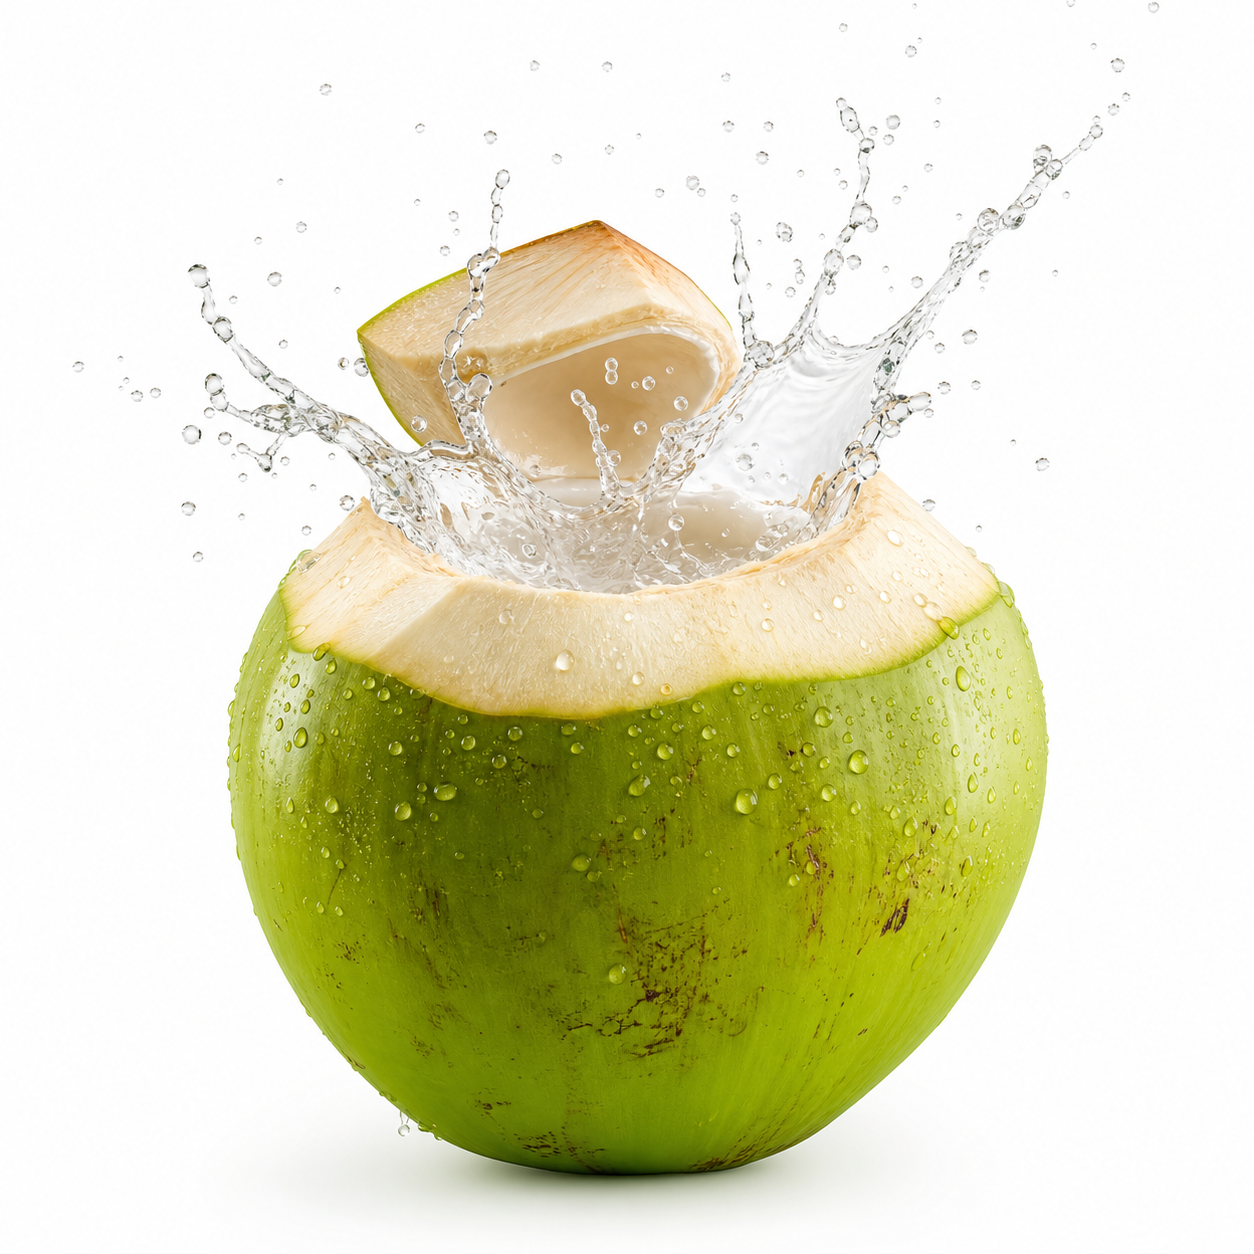
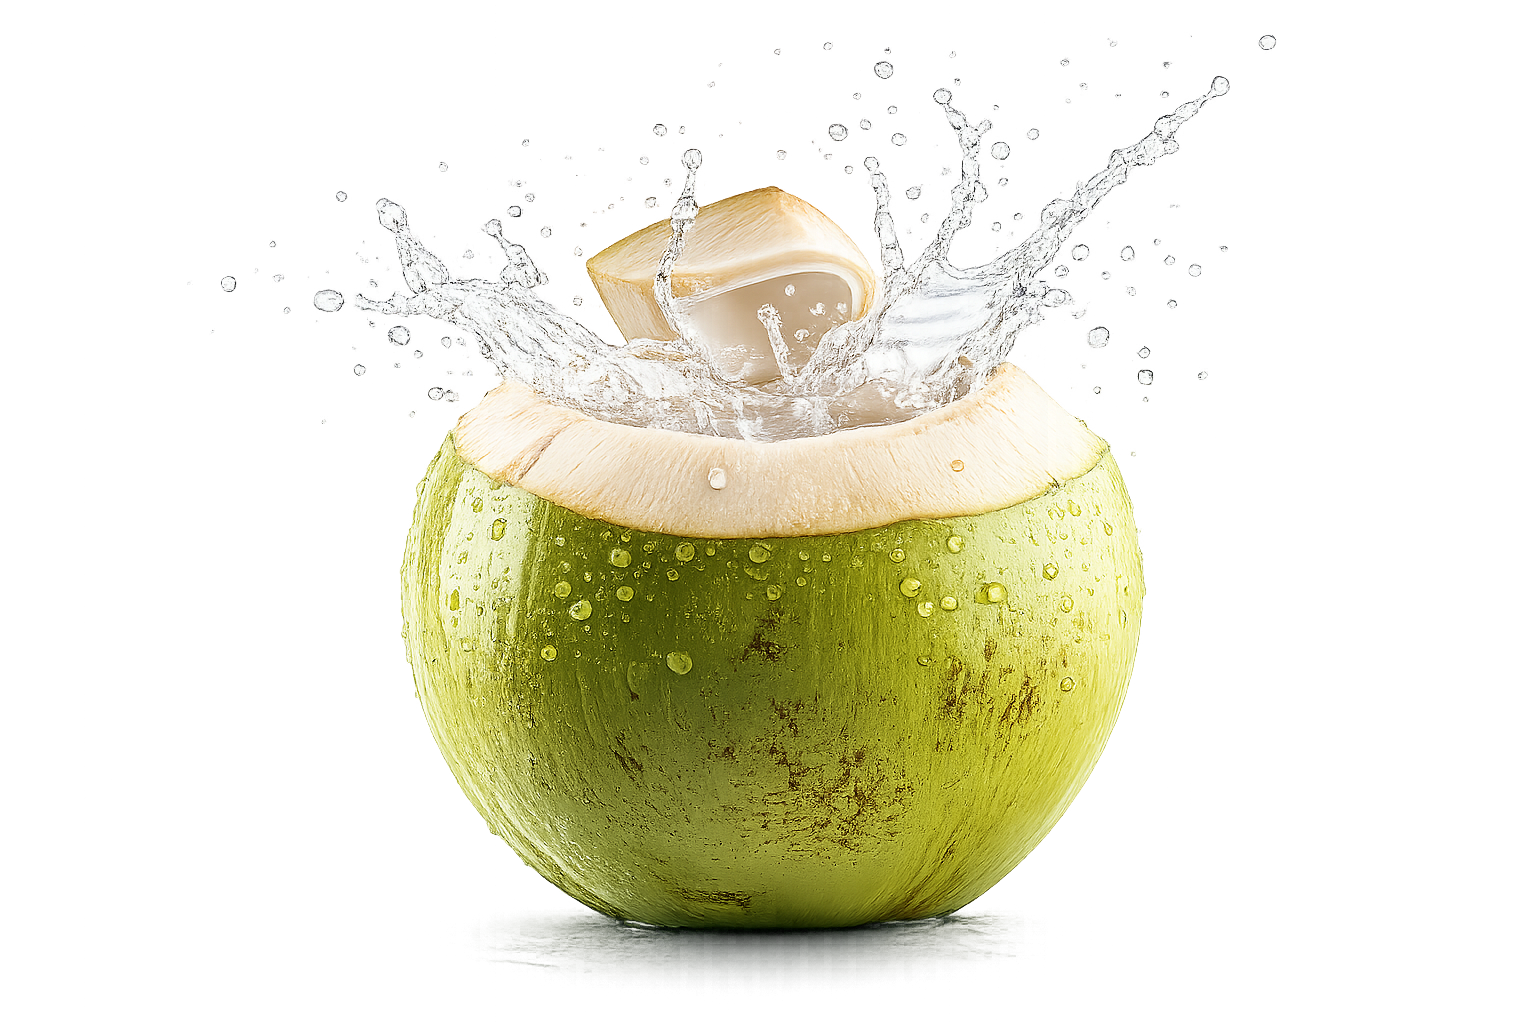
Refine showcase hero layout

diff --git a/components/tenderlyte-landing.tsx b/components/tenderlyte-landing.tsx
@@ -56,10 +56,10 @@ const navItems = [
 ];
 
 const showcaseFeatures = [
-  ["bolt", "Natural Electrolytes", "Bio-available minerals for instant cellular recovery and peak cognitive performance.", "bg-lime-400 text-[#536d00]"],
-  ["water_drop", "No Added Sugar", "Pure, unadulterated hydration with a naturally sweet profile from heritage palms.", "bg-[#c5ebda] text-[#002117]"],
-  ["energy_savings_leaf", "Fresh Daily", "Harvested every 24 hours to ensure the enzymatic vitality of our signature water.", "bg-[#e0e3e1] text-[#181c1b]"],
-  ["package_2", "Eco-Purity", "100% recyclable Tetra Pak packaging designed to block UV rays and preserve taste.", "bg-forest-900 text-white"]
+  ["bolt", "Natural Electrolytes", "Bio-available minerals for instant cellular recovery and peak cognitive performance.", "bg-[#c9ff35] text-[#536d00]"],
+  ["water_drop", "No Added Sugar", "Pure, unadulterated hydration with a naturally sweet profile from heritage palms.", "bg-[#d9ef77] text-[#425800]"],
+  ["energy_savings_leaf", "Fresh Daily", "Harvested every 24 hours to ensure the enzymatic vitality of our signature water.", "bg-[#bfe566] text-[#2f4600]"],
+  ["package_2", "Eco-Purity", "100% recyclable Tetra Pak packaging designed to block UV rays and preserve taste.", "bg-[#e9ff92] text-[#536d00]"]
 ];
 
 const minerals = [
@@ -304,50 +304,110 @@ function RemoteImage({ src, alt, className, priority = false }: { src: string; a
 }
 
 function ShowcaseHero() {
+  const prefersReducedMotion = useReducedMotion();
+  const cardLoop = prefersReducedMotion
+    ? undefined
+    : {
+        y: [0, -5, 0],
+        boxShadow: [
+          "0 20px 50px rgba(8, 44, 33, 0.05)",
+          "0 26px 64px rgba(8, 44, 33, 0.12)",
+          "0 20px 50px rgba(8, 44, 33, 0.05)"
+        ]
+      };
+
   return (
-    <section id="showcase" className="relative flex min-h-screen flex-col items-center justify-center overflow-hidden px-6 pb-16 pt-32 md:px-16">
-      <div className="absolute inset-0 bg-[radial-gradient(circle_at_50%_50%,#f9f9f9_0%,#e8e8e8_100%)]" />
-      <div className="pointer-events-none absolute -left-20 top-20 h-96 w-96 rounded-full bg-forest-950/5 blur-[120px]" />
-      <div className="pointer-events-none absolute -right-20 bottom-20 h-[500px] w-[500px] rounded-full bg-[#4e6700]/5 blur-[150px]" />
-
-      <motion.div
-        className="relative z-10 mb-16 max-w-4xl text-center"
-        initial={{ y: 42, opacity: 0, filter: "blur(12px)" }}
-        animate={{ y: 0, opacity: 1, filter: "blur(0px)" }}
-        transition={{ duration: 0.9, ease: [0.16, 1, 0.3, 1] }}
+    <section id="showcase" className="hero-motion relative isolate h-[100svh] overflow-hidden px-6 md:px-10">
+      <div className="absolute inset-0 bg-[radial-gradient(circle_at_50%_45%,rgba(255,255,255,0.18)_0%,rgba(0,0,0,0.08)_36%,rgba(0,0,0,0.18)_100%)]" />
+      <video
+        className="absolute inset-0 h-full w-full scale-110 object-cover blur-[18px] saturate-90 brightness-110"
+        autoPlay
+        muted
+        loop
+        playsInline
+        preload="auto"
+        aria-hidden="true"
+        poster={images.heroCoconut}
       >
-        <p className="mb-4 block font-display text-xs font-bold uppercase tracking-[0.2em] text-[#4e6700]">Precision Hydration</p>
-        <h1 className="mb-6 font-display text-[48px] font-semibold leading-[52px] tracking-[-0.02em] text-forest-950 md:text-[84px] md:leading-[92px] md:tracking-[-0.04em]">
-          Nature&apos;s Design, <br />
-          <span className="text-[#4e6700]">Perfected.</span>
-        </h1>
-        <p className="mx-auto max-w-2xl text-lg leading-7 text-muted">
-          Experience the futuristic purity of TenderLyte. Harvested at the peak of vitality and preserved through advanced tetra-lock technology.
-        </p>
-      </motion.div>
+        <source src="/mp_.mp4" type="video/mp4" />
+      </video>
+      <div className="absolute inset-0 bg-[#04120d]/30" />
+      <div className="pointer-events-none absolute inset-x-0 top-0 h-36 bg-gradient-to-b from-black/55 to-transparent" />
+      <div className="pointer-events-none absolute inset-x-0 bottom-0 h-40 bg-gradient-to-t from-black/35 to-transparent" />
 
-      <motion.div
-        className="relative z-10 flex w-full max-w-6xl flex-col items-center justify-between gap-10 md:flex-row md:gap-16"
-        initial={{ y: 54, opacity: 0 }}
-        animate={{ y: 0, opacity: 1 }}
-        transition={{ duration: 1, delay: 0.12, ease: [0.16, 1, 0.3, 1] }}
-      >
-        <div className="flex w-full flex-col gap-6 md:w-1/4">
-          {showcaseFeatures.slice(0, 2).map(([icon, title, text, accent]) => (
-            <ShowcaseFeature key={title} icon={icon} title={title} text={text} accent={accent} />
-          ))}
+      <div className="relative z-10 mx-auto flex h-full w-full max-w-7xl items-center py-4 md:py-6">
+        <div className="grid w-full items-center gap-8 lg:grid-cols-[1.08fr_0.92fr] lg:gap-12">
+          <motion.div
+            className="hero-scroll-copy flex max-w-none flex-col justify-center self-center"
+            initial={{ y: 30, opacity: 0, filter: "blur(12px)" }}
+            animate={{ y: 0, opacity: 1, filter: "blur(0px)" }}
+            transition={{ duration: 0.85, ease: [0.16, 1, 0.3, 1] }}
+          >
+            <div className="mb-5 flex items-center gap-3 text-[11px] font-bold uppercase tracking-[0.22em] text-[#e9ff92] md:text-[12px]">
+              <span className="h-px w-9 bg-[#e9ff92]/85" />
+              <span>Precision Hydration</span>
+            </div>
+            <h1 className="max-w-[9ch] font-display text-[clamp(36px,4.8vw,78px)] font-semibold leading-[0.92] tracking-[-0.04em] text-white drop-shadow-[0_10px_30px_rgba(0,0,0,0.35)]">
+              Nature&apos;s Design,
+              <br />
+              <span className="text-[#c9ff35]">Perfected.</span>
+            </h1>
+            <p className="mt-4 max-w-xl text-[14px] leading-6 text-white/88 drop-shadow-[0_4px_18px_rgba(0,0,0,0.28)] md:text-[15px] md:leading-7">
+              Experience the futuristic purity of TenderLyte. Harvested at the peak of vitality and preserved through advanced tetra-lock technology.
+            </p>
+            <div className="mt-6 flex flex-wrap gap-4">
+              <a className="button-primary" href="#contact" onPointerDown={ripple}>
+                Order A Sample Pack
+              </a>
+              <a className="button-ghost" href="#purity">
+                Explore Purity
+              </a>
+            </div>
+
+          </motion.div>
+
+          <motion.div
+            className="flex flex-col gap-4 self-center lg:justify-self-end"
+            initial={{ y: 40, opacity: 0, scale: 0.965 }}
+            animate={{ y: 0, opacity: 1, scale: 1 }}
+            transition={{ duration: 0.95, delay: 0.05, ease: [0.16, 1, 0.3, 1] }}
+          >
+            <div className="grid w-full max-w-[620px] gap-3 sm:grid-cols-2 lg:gap-4">
+              {showcaseFeatures.map(([icon, title, text, accent], index) => (
+                <motion.div
+                  key={title}
+                  initial={{ opacity: 0, y: 14, scale: 0.965 }}
+                  animate={{ opacity: 1, y: 0, scale: 1 }}
+                  transition={{
+                    type: "spring",
+                    stiffness: 250,
+                    damping: 18,
+                    mass: 0.85,
+                    delay: 0.08 + index * 0.04
+                  }}
+                >
+                  <motion.div
+                    animate={cardLoop}
+                    transition={
+                      prefersReducedMotion
+                        ? undefined
+                        : {
+                            duration: 5.2,
+                            repeat: Infinity,
+                            repeatType: "mirror",
+                            ease: "easeInOut",
+                            delay: index * 0.18
+                          }
+                    }
+                  >
+                    <ShowcaseFeature icon={icon} title={title} text={text} accent={accent} />
+                  </motion.div>
+                </motion.div>
+              ))}
+            </div>
+          </motion.div>
         </div>
-        <div className="relative flex w-full flex-col items-center md:w-2/4">
-          <div className="relative aspect-square w-full max-w-[500px]">
-            <Image src={images.heroCoconut} alt="Ultra-realistic 3D tender coconut splash" fill priority sizes="(max-width: 768px) 92vw, 500px" className="object-contain mix-blend-multiply drop-shadow-[0_30px_70px_rgba(8,44,33,0.16)]" />
-          </div>
-        </div>
-        <div className="flex w-full flex-col gap-6 md:w-1/4">
-          {showcaseFeatures.slice(2).map(([icon, title, text, accent]) => (
-            <ShowcaseFeature key={title} icon={icon} title={title} text={text} accent={accent} />
-          ))}
-        </div>
-      </motion.div>
+      </div>
     </section>
   );
 }
@@ -412,12 +472,12 @@ function ProductShowcase() {
 
 function ShowcaseFeature({ icon, title, text, accent }: { icon: string; title: string; text: string; accent: string }) {
   return (
-    <article className="glass-card rounded-3xl p-8 transition-all duration-700 hover:-translate-y-2" data-reveal>
-      <div className={`mb-6 flex h-12 w-12 items-center justify-center rounded-xl ${accent}`}>
+    <article className="glass-card flex min-h-[146px] flex-col rounded-[24px] border border-white/20 bg-[linear-gradient(180deg,rgba(201,255,53,0.18)_0%,rgba(255,255,255,0.08)_100%)] p-4 transition-all duration-700 hover:-translate-y-2 md:min-h-[154px] md:p-5">
+      <div className={`mb-3 flex h-10 w-10 items-center justify-center rounded-xl ${accent} md:mb-4 md:h-11 md:w-11`}>
         <span className="material-symbols-outlined">{icon}</span>
       </div>
-      <h3 className="mb-2 font-display text-[20px] font-medium leading-tight text-forest-950">{title}</h3>
-      <p className="text-sm leading-[1.55] text-muted">{text}</p>
+      <h3 className="mb-2 font-display text-[17px] font-medium leading-tight text-white md:text-[18px]">{title}</h3>
+      <p className="max-w-[21ch] text-[11px] leading-[1.4] text-white/78 md:text-[12px] md:leading-[1.45]">{text}</p>
     </article>
   );
 }